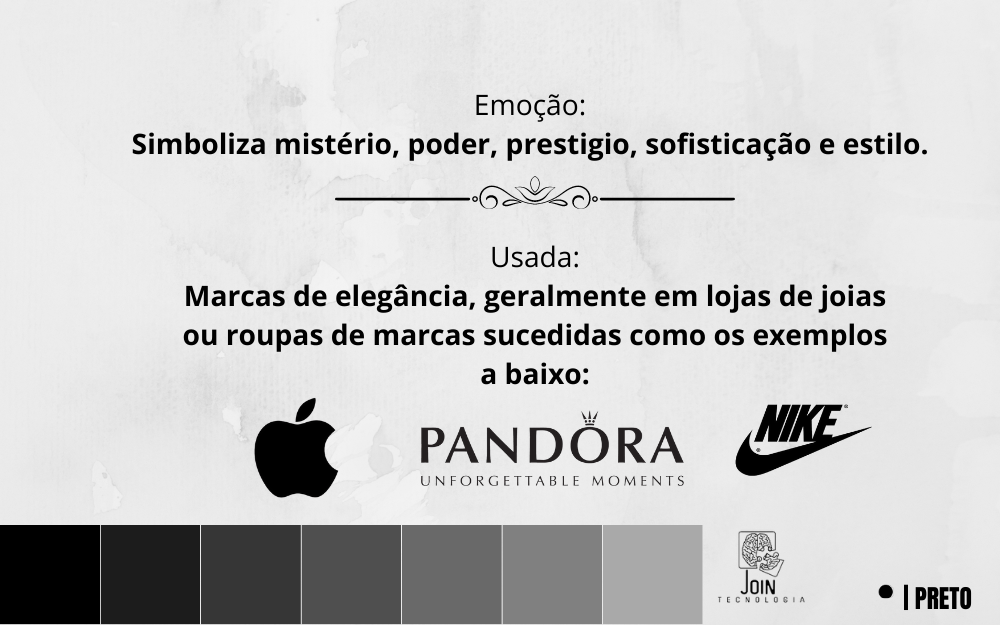
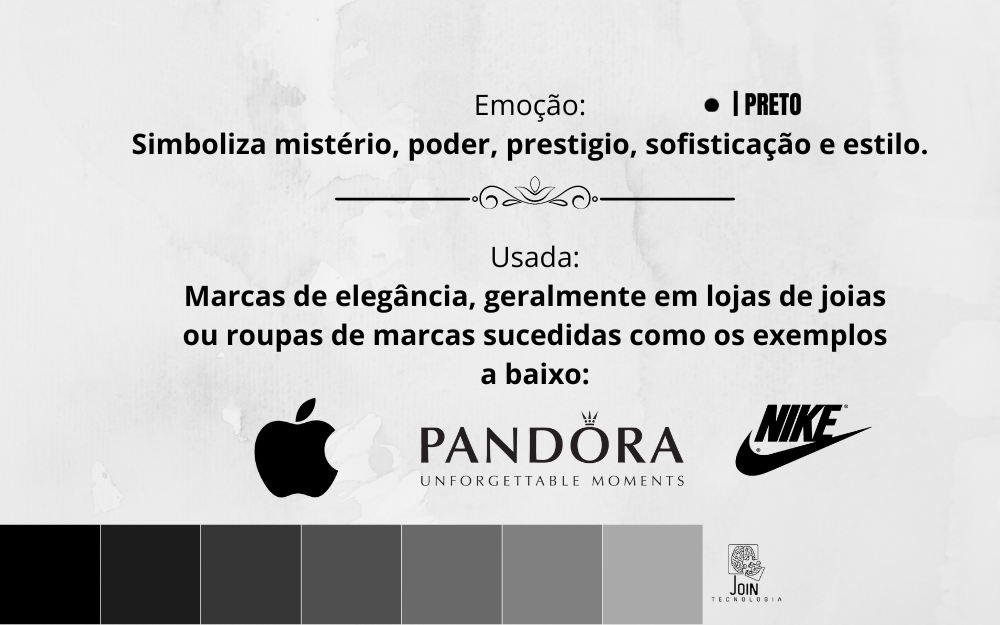
Alteração das imagens dos cartões 3d

Changed region(s): [[0.713, 0.8512, 0.806, 0.9728], [0.868, 0.9424, 0.992, 0.9728], [0.682, 0.152, 0.806, 0.1824]]

diff --git a/index.html b/index.html
@@ -36,8 +36,11 @@
       <div
         class="uk-position-relative uk-visible-toggle"
         tabindex="-1"
-        uk-slideshow="animation: push">
+        uk-slideshow="animation: fade">
         <ul class="uk-slideshow-items">
+          <li>
+            <img src="/img/apresentacao.gif" alt="preto" uk-cover />
+          </li>
           <li>
             <img src="/img/preto.png" alt="preto" uk-cover />
           </li>
@@ -341,103 +344,73 @@
       </div>
       <div class="combinacao-cores">
         <div class="conteudo-imagem">
-          <img
-            class="imagem-frente"
-            src="img/tabela_um_cores/logo-branca.png"
-            alt="Imagem 1" />
+          <img class="imagem-frente" src="img/cores/logo.png" alt="Imagem 1" />
           <img
             class="imagem-atras"
-            src="img/tabela_um_cores/1.png"
+            src="img/cores/1.png"
             alt="Imagem combinação de cores 1" />
         </div>
         <div class="conteudo-imagem">
-          <img
-            class="imagem-frente"
-            src="img/tabela_um_cores/logo-branca.png"
-            alt="Imagem 1" />
+          <img class="imagem-frente" src="img/cores/logo.png" alt="Imagem 1" />
           <img
             class="imagem-atras"
-            src="img/tabela_um_cores/2.png"
+            src="img/cores/2.png"
             alt="Imagem combinação de cores 2" />
         </div>
         <div class="conteudo-imagem">
-          <img
-            class="imagem-frente"
-            src="img/tabela_um_cores/logo-branca.png"
-            alt="Imagem 1" />
+          <img class="imagem-frente" src="img/cores/logo.png" alt="Imagem 1" />
           <img
             class="imagem-atras"
-            src="img/tabela_um_cores/3.png"
+            src="img/cores/3.png"
             alt="Imagem combinação de cores 3" />
         </div>
         <div class="conteudo-imagem">
-          <img
-            class="imagem-frente"
-            src="img/tabela_um_cores/logo-branca.png"
-            alt="Imagem 1" />
+          <img class="imagem-frente" src="img/cores/logo.png" alt="Imagem 1" />
           <img
             class="imagem-atras"
-            src="img/tabela_um_cores/4.png"
+            src="img/cores/4.png"
             alt="Imagem combinação de cores 4" />
         </div>
         <div class="conteudo-imagem">
-          <img
-            class="imagem-frente"
-            src="img/tabela_um_cores/logo-branca.png"
-            alt="Imagem 1" />
+          <img class="imagem-frente" src="img/cores/logo.png" alt="Imagem 1" />
           <img
             class="imagem-atras"
-            src="img/tabela_um_cores/5.png"
+            src="img/cores/5.png"
             alt="Imagem combinação de cores 5" />
         </div>
         <div class="conteudo-imagem">
-          <img
-            class="imagem-frente"
-            src="img/tabela_um_cores/logo-branca.png"
-            alt="Imagem 1" />
+          <img class="imagem-frente" src="img/cores/logo.png" alt="Imagem 1" />
           <img
             class="imagem-atras"
-            src="img/tabela_um_cores/6.png"
+            src="img/cores/6.png"
             alt="Imagem combinação de cores 6" />
         </div>
         <div class="conteudo-imagem">
-          <img
-            class="imagem-frente"
-            src="img/tabela_um_cores/logo-branca.png"
-            alt="Imagem 1" />
+          <img class="imagem-frente" src="img/cores/logo.png" alt="Imagem 1" />
           <img
             class="imagem-atras"
-            src="img/tabela_um_cores/7.png"
+            src="img/cores/7.png"
             alt="Imagem combinação de cores 7" />
         </div>
         <div class="conteudo-imagem">
-          <img
-            class="imagem-frente"
-            src="img/tabela_um_cores/logo-branca.png"
-            alt="Imagem 1" />
+          <img class="imagem-frente" src="img/cores/logo.png" alt="Imagem 1" />
           <img
             class="imagem-atras"
-            src="img/tabela_um_cores/8.png"
+            src="img/cores/8.png"
             alt="Imagem combinação de cores 8" />
         </div>
         <div class="conteudo-imagem">
-          <img
-            class="imagem-frente"
-            src="img/tabela_um_cores/logo-branca.png"
-            alt="Imagem 1" />
+          <img class="imagem-frente" src="img/cores/logo.png" alt="Imagem 1" />
           <img
             class="imagem-atras"
-            src="img/tabela_um_cores/9.png"
+            src="img/cores/9.png"
             alt="Imagem combinação de cores 9" />
         </div>
         <div class="conteudo-imagem">
-          <img
-            class="imagem-frente"
-            src="img/tabela_um_cores/logo-branca.png"
-            alt="Imagem 1" />
+          <img class="imagem-frente" src="img/cores/logo.png" alt="Imagem 1" />
           <img
             class="imagem-atras"
-            src="img/tabela_um_cores/10.png"
+            src="img/cores/10.png"
             alt="Imagem combinação de cores 10" />
         </div>
       </div>

diff --git a/css/estilo.css b/css/estilo.css
@@ -8,7 +8,7 @@
   --claro: #f9faff;
   --claro-secundario: #f9faffea;
   --escuro: #1b1919c2;
-  --cor-hover: linear-gradient(to right, #3dbea1, #267f9f, #1e6a9d);
+  --cor-hover: linear-gradient(to right, #15ecd0, #eb9ded, #15ecd0);
   --cor-menu: #1b1b1b;
 }
 
@@ -81,7 +81,10 @@ main {
   background: var(--cor-hover);
   text-align: center;
   transition: 0.7s;
-  color: var(--claro-secundario);
+  color: wheat;
+
+  box-shadow: 0px 4px 6px 0px rgba(0, 0, 0, 0.3);
+  scale: 1.02;
 
   border-radius: 15px 8px 15px 8px;
 }
